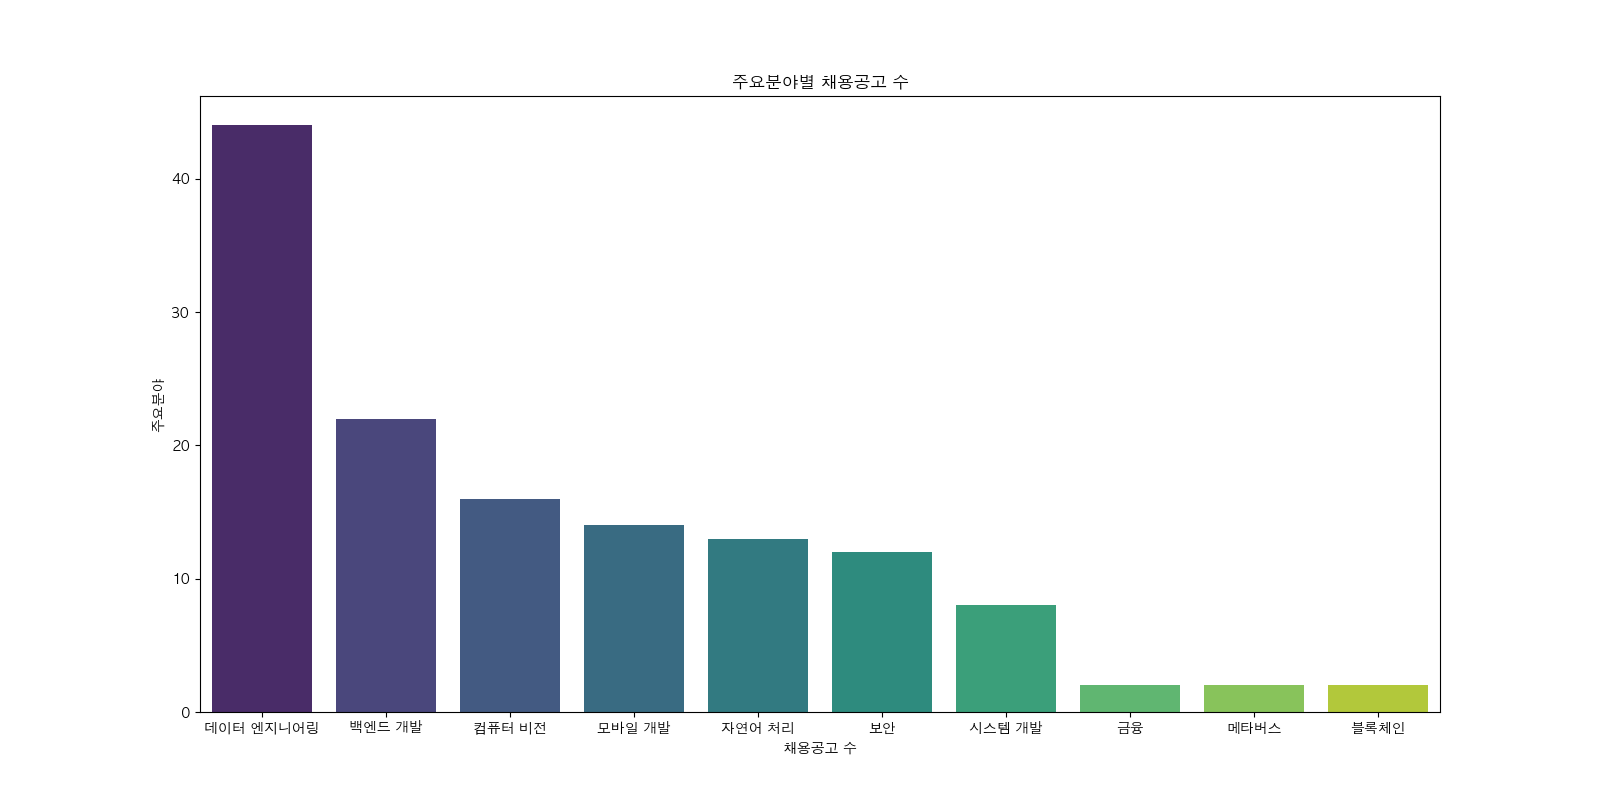
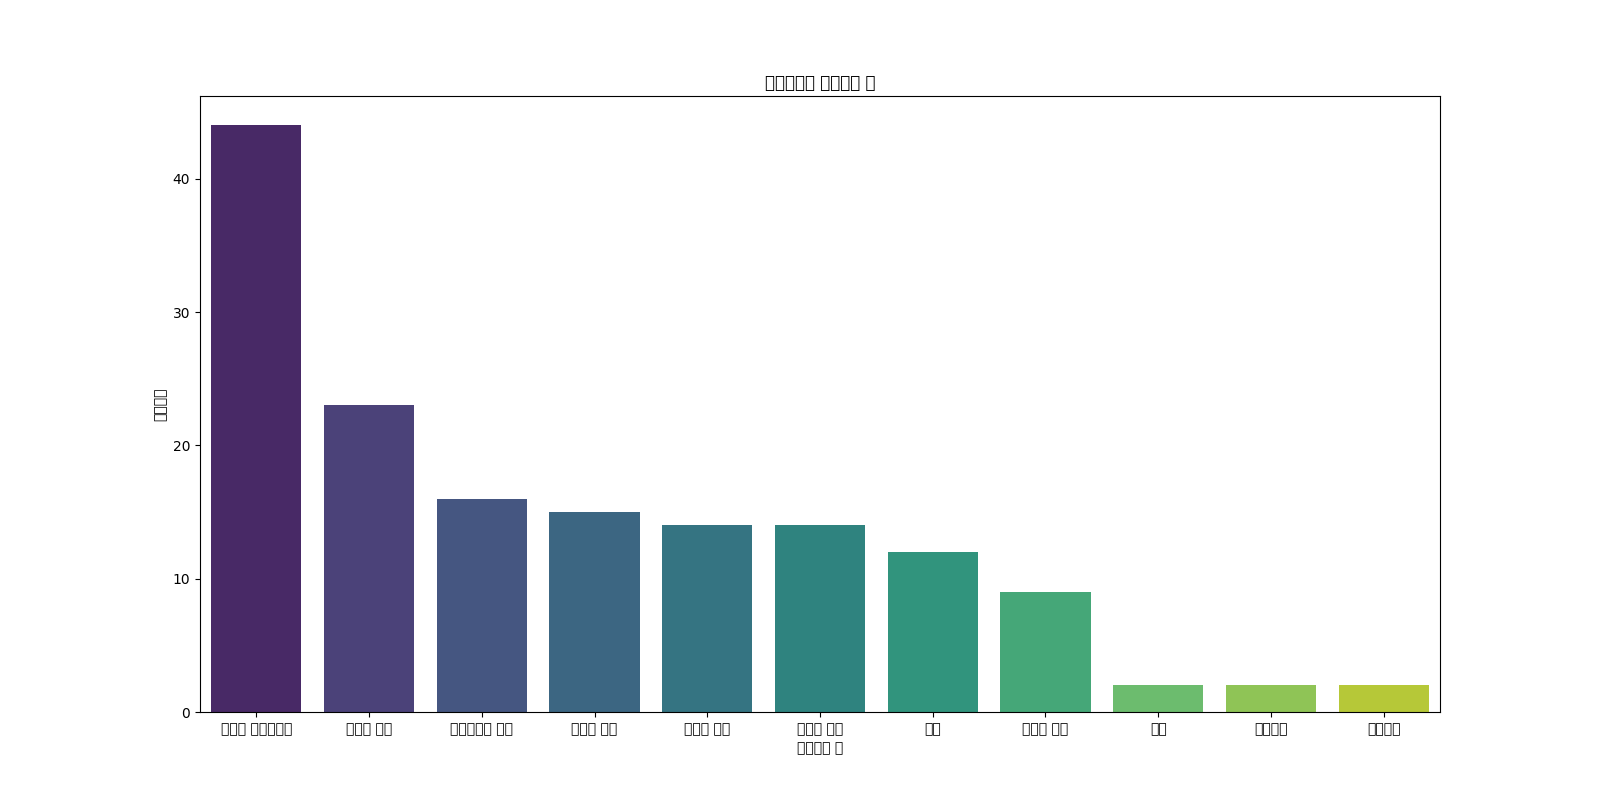
fixed frontend

diff --git a/sql_app/frontend/dist/assets/main.js b/sql_app/frontend/dist/assets/main.js
@@ -217,11 +217,8 @@ class App{
             }
             title = '모바일 개발 연관 기술';
         }
-
-        related_skills = related_skills.replace(/'/g, '"');
-        related_skills = JSON.parse(related_skills);
-
         related_skills.forEach(element => {
+            console.log(element);
             const skill_item = Object.entries(element);
             const skill = skill_item[0][0];
             const cnt = Number(skill_item[0][1]);

diff --git a/sql_app/main.py b/sql_app/main.py
@@ -78,20 +78,20 @@ def draw_sub_graph(related_fields, keyword, filepath):
 
 
 async def load_data():
-    # jobkorea_crawler = JobKoreaCrawler(WAIT_SEC, DEBUG)
-    # saramin_crawler = SaraminCrawler(WAIT_SEC, DEBUG)
+    jobkorea_crawler = JobKoreaCrawler(WAIT_SEC, DEBUG)
+    saramin_crawler = SaraminCrawler(WAIT_SEC, DEBUG)
 
-    # jobkorea_dataset = jobkorea_crawler.crawling()
-    # saramin_dataset = saramin_crawler.crawling()
+    jobkorea_dataset = jobkorea_crawler.crawling()
+    saramin_dataset = saramin_crawler.crawling()
 
-    # total_df = preprocessing(jobkorea_dataset, saramin_dataset)
-    # total_df.columns = ['main_field', 'num_posts', 'related_field']
+    total_df = preprocessing(jobkorea_dataset, saramin_dataset)
+    total_df.columns = ['main_field', 'num_posts', 'related_field']
 
-    total_df = pd.read_csv('/Users/pervin0527/Get_ME_AJob/test.csv')
-    total_df.columns = ['index', 'main_field', 'num_posts', 'related_field']
-    total_df.drop(columns=['index'], inplace=True)
+    #total_df = pd.read_csv('/Users/pervin0527/Get_ME_AJob/test.csv')
+    #total_df.columns = ['index', 'main_field', 'num_posts', 'related_field']
+    #total_df.drop(columns=['index'], inplace=True)
 
-    # total_df['related_field'] = total_df['related_field'].apply(lambda x: json.dumps(x))
+    #total_df['related_field'] = total_df['related_field'].apply(lambda x: json.dumps(x))
     total_df = total_df[total_df['main_field'] != 'Unknown']
     total_df['related_field'] = total_df['related_field'].apply(lambda x: json.dumps(x) if isinstance(x, list) else x)
     draw_main_graph(total_df['main_field'].to_list(), total_df['num_posts'].to_list(), f"{STATIC_DIR}/graph_main.png")

diff --git a/sql_app/schemas.py b/sql_app/schemas.py
@@ -17,6 +17,10 @@ class JobPostBase(BaseModel):
             except json.JSONDecodeError:
                 raise ValueError("related_field must be a valid JSON list")
         return v
+    '''
+    class Config:
+        orm_mode = True
+    '''
 
 class JobPostCreate(JobPostBase):
     pass
@@ -26,11 +30,18 @@ class JobPostUpdate(BaseModel):
     num_posts: Optional[int] = None
     related_field: Optional[List[Dict[str, Any]]] = None
 
+    '''
+    class Config:
+        orm_mode = True
+    '''
+
 class JobPostRead(JobPostBase):
     id: int
 
+'''
     class Config:
         orm_mode = True
+'''
 
 class JobPostList(BaseModel):
     items: List[JobPostRead]

diff --git a/src/data_process.py b/src/data_process.py
@@ -96,8 +96,8 @@ def preprocessing(*args):
     main_field_list = field_counts.index.to_list()
     main_field_counts = list(field_counts.values)
     
-    main_field_list.pop(4)
-    main_field_counts.pop(4)
+    #main_field_list.pop(4)
+    #main_field_counts.pop(4)
     # draw_main_graph(field_counts)
 
     related_field_list = [[] for _ in main_field_list]
@@ -116,6 +116,6 @@ def preprocessing(*args):
             related_field_list[i] = []
 
     result = pd.DataFrame({'주요분야': main_field_list, '공고수': main_field_counts, '연관분야': related_field_list})
-    # result.to_csv('test.csv')
+    result.to_csv('test.csv')
 
     return result

diff --git a/sql_app/database.py b/sql_app/database.py
@@ -2,7 +2,8 @@ from sqlalchemy import create_engine
 from sqlalchemy.orm import sessionmaker
 from sqlalchemy.ext.declarative import declarative_base
 
-SQLALCHEMY_DATABASE_URL = "postgresql://pervin0527:aw475900+@localhost/job_post"
+SQLALCHEMY_DATABASE_URL = "postgresql://postgres:wldnjs5768@localhost/getmeajob"
+
 engine = create_engine(SQLALCHEMY_DATABASE_URL)
 
 SessionLocal = sessionmaker(autocommit=False, autoflush=False, bind=engine)
